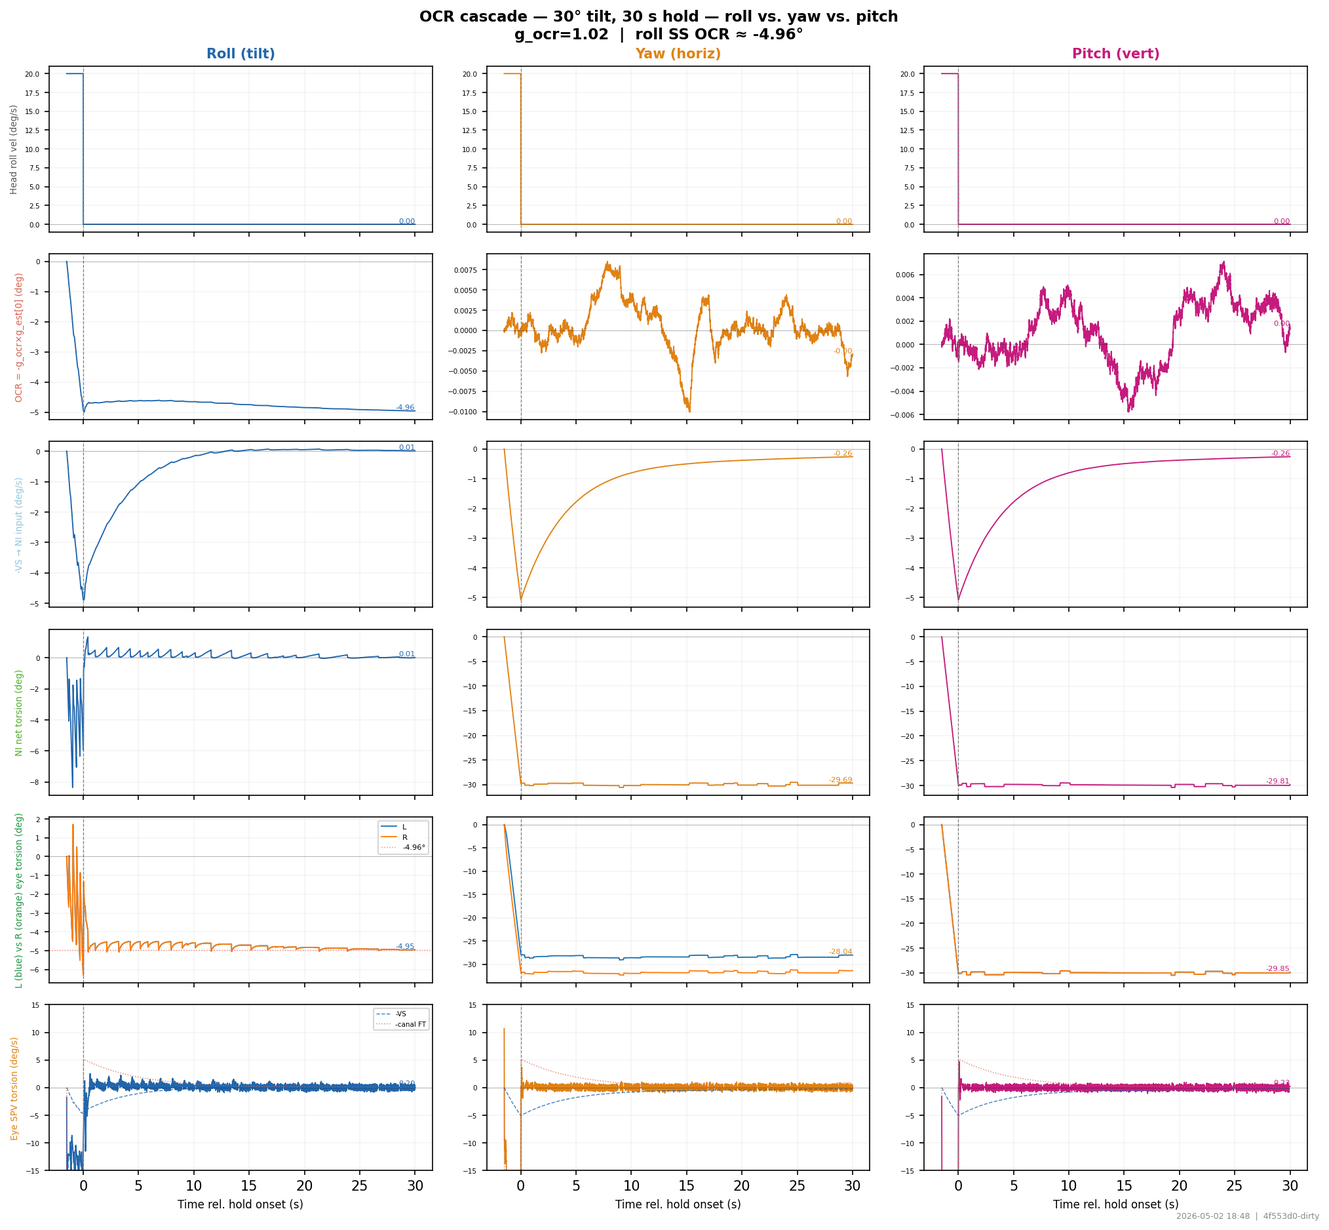
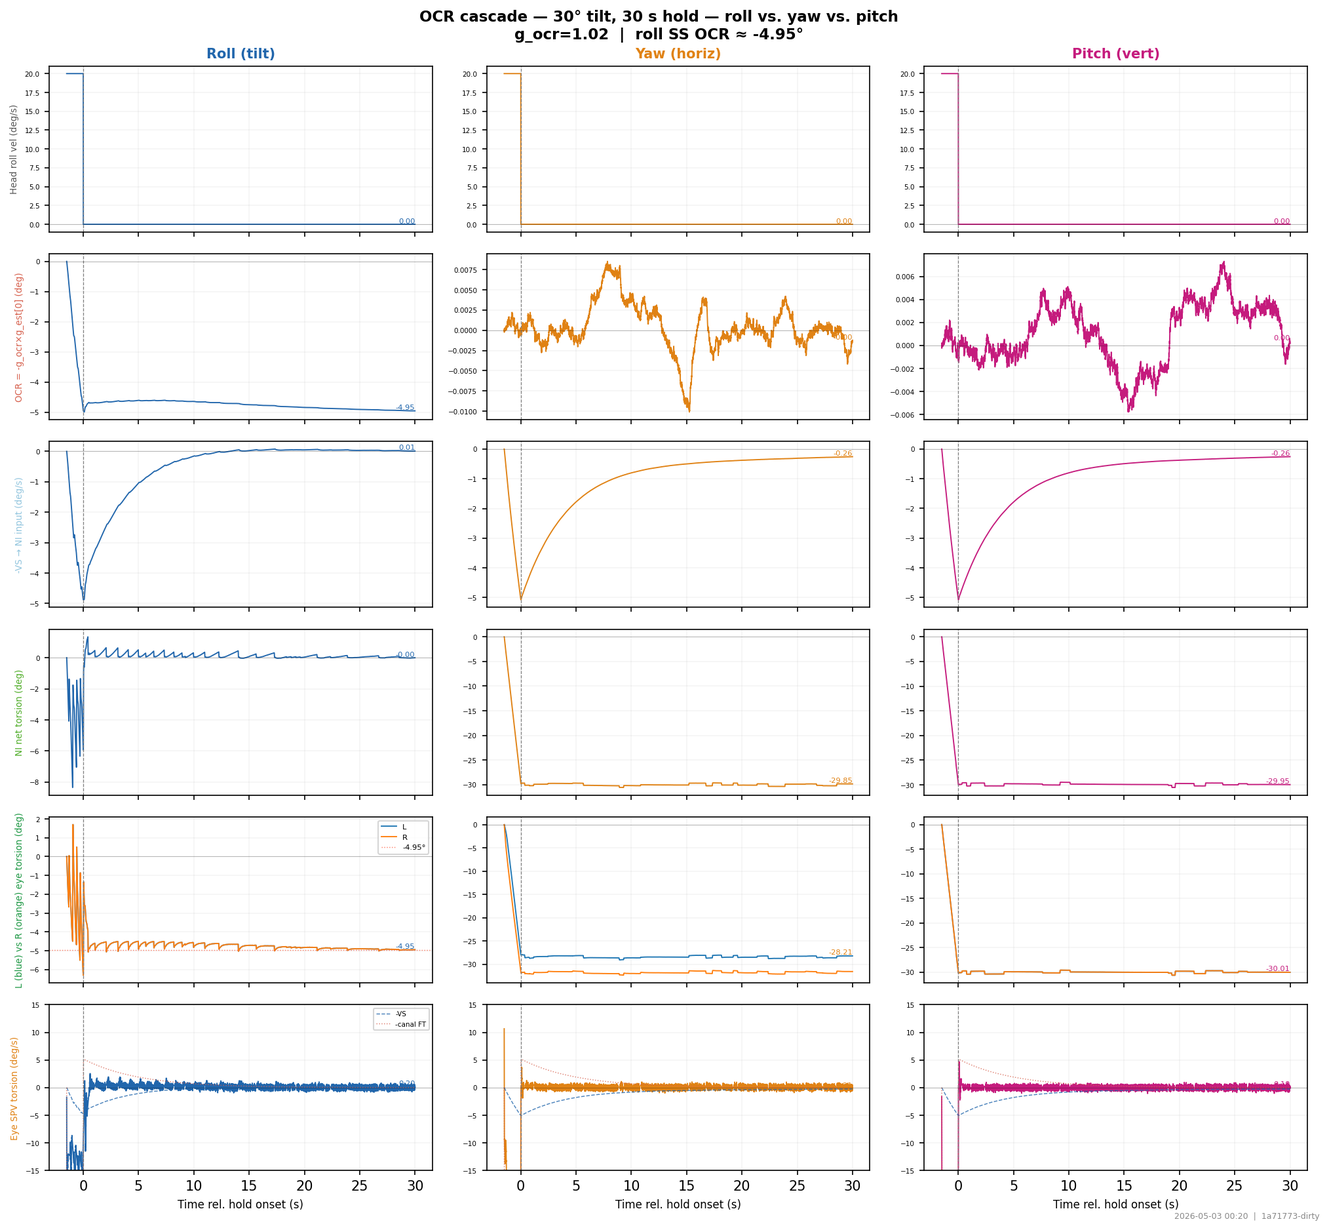
fixed ovar with tvor on! still have some provels with tvor with lights on

diff --git a/scripts/bench_gravity.py b/scripts/bench_gravity.py
@@ -16,6 +16,7 @@ sys.path.insert(0, os.path.dirname(os.path.abspath(__file__)))
 import bench_utils as utils
 
 import numpy as np
+import jax
 import jax.numpy as jnp
 import matplotlib
 if '--show' not in sys.argv:
@@ -183,9 +184,24 @@ def _ocr(show):
 # ─────────────────────────────────────────────────────────────────────────────
 
 def _ovar(show):
-    SPIN_VEL  = 60.0
-    TOTAL     = 60.0
-    TILTS_DEG = [10.0, 30.0, 60.0, 90.0]
+    from oculomotor.models.brain_models.brain_model import _IDX_HEAD
+    from oculomotor.models.plant_models.readout import rotation_matrix
+    from oculomotor.models.sensory_models.retina import ypr_to_xyz
+    SPIN_VEL    = 60.0
+    TILTS_DEG   = [10.0, 30.0, 60.0, 90.0]
+    # Stimulus protocol (separated tilt and rotation events):
+    #   [0, T_TILT_START):           upright at rest
+    #   [T_TILT_START, T_TILT_END):  tilt ramp at TILT_VEL deg/s up to tilt_deg
+    #   [T_TILT_END, T_ROT_START):   rest at tilted position — let g_est settle
+    #   [T_ROT_START, T_ROT_RAMP):   rotation ramp 0 → SPIN_VEL
+    #   [T_ROT_RAMP, TOTAL):         constant SPIN_VEL
+    TILT_VEL      = 30.0   # deg/s tilt rate
+    T_TILT_START  = 2.0
+    T_TILT_END_MAX = T_TILT_START + 90.0 / TILT_VEL   # 5 s for biggest tilt
+    T_ROT_START   = 35.0                              # delay rotation onset to let a_est / v_lin fully settle after tilt
+    ROT_RAMP      = 1.0                                # 1 s smooth ramp
+    T_ROT_RAMP    = T_ROT_START + ROT_RAMP
+    TOTAL         = T_ROT_RAMP + 50.0                  # 50 s of clean rotation
 
     params = with_brain(PARAMS_DEFAULT, K_gd=K_GD)
     cfg    = SimConfig(warmup_s=0.0)   # start from rest (v[0]=0 required)
@@ -194,22 +210,31 @@ def _ovar(show):
     period = 360.0 / SPIN_VEL
 
     colors = ['#1b7837', '#762a83', '#e08214', '#c0392b']
+    # Track right-axis handles so we can format them after the per-condition loop.
+    a_est_axes = []
 
-    fig, axes = plt.subplots(4, 1, figsize=(14, 12), sharex=True)
+    # Layout: SPV | g_est[x,y,z] (3) | v_lin[x,y,z] (3) | VS | Stimulus = 9 rows
+    fig, axes = plt.subplots(9, 1, figsize=(14, 22), sharex=True)
     fig.suptitle(
         f'OVAR — Off-Vertical Axis Rotation  (Laurens & Angelaki 2011, Fig 5)\n'
         f'{SPIN_VEL:.0f} °/s rotation, K_gd={K_GD}, tau_grav={TAU_GRAV}',
         fontsize=12, fontweight='bold')
 
     for ci, tilt_deg in enumerate(TILTS_DEG):
-        # Head starts tilted (left-ear-down = positive roll) then rotates at SPIN_VEL
-        # around the body yaw axis (intrinsic).  This is the classic OVAR geometry:
-        # the chair tilts the subject then rotates around the chair's (tilted) axis.
-        head_vel = np.stack([np.where(t > 0, SPIN_VEL, 0.0),
-                             np.zeros(T),
-                             np.zeros(T)], axis=1)
+        # Build per-condition velocity profile with separated tilt and rotation phases.
+        T_TILT_END = T_TILT_START + tilt_deg / TILT_VEL
+        # Roll velocity: ramp up to TILT_VEL during [T_TILT_START, T_TILT_END), 0 elsewhere.
+        # Integrates to tilt_deg by T_TILT_END.
+        roll_vel = np.where((t >= T_TILT_START) & (t < T_TILT_END), TILT_VEL, 0.0)
+        # Yaw velocity: 0 until T_ROT_START, then linear ramp to SPIN_VEL over ROT_RAMP s, hold.
+        yaw_vel = np.zeros(T)
+        ramp_mask = (t >= T_ROT_START) & (t < T_ROT_RAMP)
+        hold_mask = t >= T_ROT_RAMP
+        yaw_vel[ramp_mask] = SPIN_VEL * (t[ramp_mask] - T_ROT_START) / ROT_RAMP
+        yaw_vel[hold_mask] = SPIN_VEL
+        head_vel = np.stack([yaw_vel, np.zeros(T), roll_vel], axis=1)
         head_km  = km.build_kinematics(t, rot_vel=head_vel,
-                                       rot_pos_0=[0.0, 0.0, tilt_deg])
+                                       rot_pos_0=[0.0, 0.0, 0.0])  # start upright
 
         st       = simulate(params, t,
                             head=head_km,
@@ -220,52 +245,95 @@ def _ovar(show):
         eye_pos = (np.array(st.plant[:, 0]) + np.array(st.plant[:, 3])) / 2.0
         eye_vel = np.gradient(eye_pos, DT)
         spv     = extract_spv_states(st, t)[:, 0]
-        g_est   = np.array(st.brain[:, _IDX_GRAV])
+        g_est   = np.array(st.brain[:, _IDX_GRAV])[:, :3]
+        v_lin   = np.array(st.brain[:, _IDX_HEAD])
+
+        # Compute gia per timestep from head pose (no head translation here, so a_head=0).
+        # gia_head = R(q_head)^T @ G_WORLD.  Then a_est = gia − g_est is what HE integrates.
+        # Vectorized via jax.vmap.
+        q_head_arr = jnp.asarray(head_km.rot_pos)
+        def _gia_one(q):
+            R = rotation_matrix(ypr_to_xyz(q))
+            return R.T @ jnp.array([0.0, G0, 0.0])
+        gia   = np.asarray(jax.vmap(_gia_one)(q_head_arr))
+        a_est = gia - g_est   # what HE integrates into v_lin
 
         col = colors[ci]
         lbl = f'{tilt_deg:.0f}° tilt'
         axes[0].plot(t, spv,             color=col, lw=1.2, alpha=0.85, label=lbl)
         axes[1].plot(t, g_est[:, 0],     color=col, lw=1.2, label=lbl)
-        axes[2].plot(t, vs_net(st)[:,0], color=col, lw=1.2, label=lbl)
+        axes[2].plot(t, g_est[:, 1],     color=col, lw=1.2, label=lbl)
+        axes[3].plot(t, g_est[:, 2],     color=col, lw=1.2, label=lbl)
+        axes[4].plot(t, v_lin[:, 0]*100, color=col, lw=1.2, label=lbl)    # cm/s
+        axes[5].plot(t, v_lin[:, 1]*100, color=col, lw=1.2, label=lbl)
+        axes[6].plot(t, v_lin[:, 2]*100, color=col, lw=1.2, label=lbl)
+        # Overlay a_est (HE integrand) on a right axis for each v_lin panel.
+        for axis_idx, row in [(0, 4), (1, 5), (2, 6)]:
+            if ci == 0:
+                a_est_axes.append(axes[row].twinx())
+            ax_r = a_est_axes[axis_idx]
+            ax_r.plot(t, a_est[:, axis_idx], color=col, lw=0.8, ls='--', alpha=0.6,
+                      label=f'a_est {lbl}' if axis_idx == 0 else None)
+        axes[7].plot(t, vs_net(st)[:,0], color=col, lw=1.2, label=lbl)
         # Stimulus: yaw velocity is identical for all conditions — plot once
         if ci == 0:
-            axes[3].plot(t, head_km.rot_vel[:, 0], 'k-', lw=1.5, label=f'{SPIN_VEL:.0f}°/s body yaw')
+            axes[8].plot(t, head_km.rot_vel[:, 0], 'k-', lw=1.5, label=f'{SPIN_VEL:.0f}°/s body yaw')
 
     # Twin axis: right = initial roll tilt per condition (horizontal colored lines)
-    ax3b = axes[3].twinx()
+    ax_stim_b = axes[8].twinx()
     for ci, tilt_deg in enumerate(TILTS_DEG):
-        ax3b.axhline(tilt_deg, color=colors[ci], lw=1.5, ls='--',
+        ax_stim_b.axhline(tilt_deg, color=colors[ci], lw=1.5, ls='--',
                      label=f'Initial roll tilt = {tilt_deg:.0f}°')
-    ax3b.set_ylabel('Initial roll tilt (°)', fontsize=9, color='gray')
-    ax3b.tick_params(axis='y', labelcolor='gray')
-    ax3b.set_ylim(-5, 100)
+    ax_stim_b.set_ylabel('Initial roll tilt (°)', fontsize=9, color='gray')
+    ax_stim_b.tick_params(axis='y', labelcolor='gray')
+    ax_stim_b.set_ylim(-5, 100)
 
-    pm = np.arange(period, TOTAL, period)
-    for ax in axes[:3]:
+    # Period markers start after rotation reaches steady state (T_ROT_RAMP).
+    pm = np.arange(T_ROT_RAMP + period, TOTAL, period)
+    # Also mark the tilt and rotation onset events.
+    event_marks = [(T_TILT_START, '#1f77b4', 'tilt start'),
+                   (T_ROT_START,  '#d62728', 'rot start')]
+    for ax in axes[:8]:
         for p in pm: ax.axvline(p, color='gray', lw=0.4, ls=':', alpha=0.5)
+        for ev_t, ev_c, _ in event_marks: ax.axvline(ev_t, color=ev_c, lw=0.6, ls='--', alpha=0.4)
         ax.axhline(0, color='k', lw=0.4); ax.grid(True, alpha=0.15)
 
-    axes[3].grid(True, alpha=0.15); axes[3].axhline(0, color='k', lw=0.4)
-    for p in pm: axes[3].axvline(p, color='gray', lw=0.4, ls=':', alpha=0.5)
+    axes[8].grid(True, alpha=0.15); axes[8].axhline(0, color='k', lw=0.4)
+    for p in pm: axes[8].axvline(p, color='gray', lw=0.4, ls=':', alpha=0.5)
+    for ev_t, ev_c, _ in event_marks: axes[8].axvline(ev_t, color=ev_c, lw=0.6, ls='--', alpha=0.4)
 
-    axes[0].set_ylabel('Slow Phase Velocity (SPV, deg/s)', fontsize=9); axes[0].legend(fontsize=8)
+    axes[0].set_ylabel('SPV (deg/s)', fontsize=9); axes[0].legend(fontsize=8)
     axes[0].set_title('SPV sinusoidally modulated at rotation period', fontsize=9)
 
     amp_ref = G0 * np.sin(np.radians(TILTS_DEG[-1]))
-    axes[1].set_ylabel('g_est[0] interaural/right (m/s²)', fontsize=9); axes[1].legend(fontsize=8)
-    axes[1].set_title(f'Gravity estimate oscillates ±G0 sin(a); 90 deg: ±{amp_ref:.1f} m/s²', fontsize=9)
+    axes[1].set_ylabel('g_est[x]\ninteraural (m/s²)', fontsize=9); axes[1].legend(fontsize=8)
+    axes[1].set_title(f'g_est interaural — oscillates ±G₀ sin(α); 90° → ±{amp_ref:.1f} m/s²', fontsize=9)
     axes[1].set_ylim(-12, 12)
+    axes[2].set_ylabel('g_est[y]\nvertical (m/s²)', fontsize=9); axes[2].legend(fontsize=8)
+    axes[2].set_title(f'g_est vertical — should stay near G₀ ≈ {G0:.2f} m/s² (deviation = somatogravic illusion)', fontsize=9)
+    axes[3].set_ylabel('g_est[z]\nforward (m/s²)', fontsize=9); axes[3].legend(fontsize=8)
+    axes[3].set_title('g_est forward — should oscillate too (orthogonal to interaural at 90°)', fontsize=9)
 
-    axes[2].set_ylabel('Velocity Storage (VS) net yaw (deg/s)', fontsize=9); axes[2].legend(fontsize=8)
-    axes[2].set_title('Velocity Storage modulated by gravity dumping (K_gd)', fontsize=9)
+    axes[4].set_ylabel('v_lin[x]\nrightward (cm/s)', fontsize=9); axes[4].legend(fontsize=8, loc='upper left')
+    axes[4].set_title('v_lin (left axis, solid) and a_est = gia − g_est (right axis, dashed) — HE integrates a_est into v_lin', fontsize=9)
+    axes[5].set_ylabel('v_lin[y]\nupward (cm/s)', fontsize=9); axes[5].legend(fontsize=8, loc='upper left')
+    axes[6].set_ylabel('v_lin[z]\nforward (cm/s)', fontsize=9); axes[6].legend(fontsize=8, loc='upper left')
+    for axis_idx, row in [(0, 4), (1, 5), (2, 6)]:
+        ax_r = a_est_axes[axis_idx]
+        ax_r.set_ylabel(f'a_est[{["x","y","z"][axis_idx]}]\n(m/s²)', fontsize=8, color='gray')
+        ax_r.tick_params(axis='y', labelcolor='gray', labelsize=7)
+        ax_r.axhline(0, color='gray', lw=0.3, alpha=0.5)
 
-    axes[3].set_ylabel('Head yaw velocity (°/s)', fontsize=9, color='k')
-    axes[3].set_xlabel('Time (s)', fontsize=9)
-    axes[3].set_title('Stimulus: constant body-yaw rotation (solid) + initial roll tilt per condition (dashed, right axis)',
+    axes[7].set_ylabel('VS net yaw (deg/s)', fontsize=9); axes[7].legend(fontsize=8)
+    axes[7].set_title('Velocity Storage modulated by gravity dumping (K_gd)', fontsize=9)
+
+    axes[8].set_ylabel('Head yaw vel (°/s)', fontsize=9, color='k')
+    axes[8].set_xlabel('Time (s)', fontsize=9)
+    axes[8].set_title('Stimulus: constant body-yaw rotation (solid) + initial roll tilt per condition (dashed, right)',
                       fontsize=9)
-    lines_l, labels_l = axes[3].get_legend_handles_labels()
-    lines_r, labels_r = ax3b.get_legend_handles_labels()
-    axes[3].legend(lines_l + lines_r, labels_l + labels_r, fontsize=7, loc='center right', ncol=2)
+    lines_l, labels_l = axes[8].get_legend_handles_labels()
+    lines_r, labels_r = ax_stim_b.get_legend_handles_labels()
+    axes[8].legend(lines_l + lines_r, labels_l + labels_r, fontsize=7, loc='center right', ncol=2)
 
     fig.tight_layout()
     path, rp = utils.save_fig(fig, 'gravity_ovar', show=show)
@@ -274,8 +342,14 @@ def _ovar(show):
         description=f'{SPIN_VEL:.0f}°/s rotation, tilt angles {TILTS_DEG}°. '
                     'Replicates Laurens & Angelaki (2011) Fig 5.',
         expected='SPV sinusoidally modulated at rotation period. '
-                 'Modulation amplitude ∝ sin(tilt). g_est oscillates ±G₀ sin(α).',
-        citation='Laurens & Angelaki (2011) Exp Brain Res 210:407',
+                 'Modulation amplitude ∝ sin(tilt). g_est oscillates ±G₀ sin(α). '
+                 'A small residual v_lin DC bias along the rotation axis ("screw direction") '
+                 'reflects the perceived sustained linear translation reported by subjects '
+                 'during prolonged OVAR (Denise et al. 1988; Wood 2002).',
+        citation='Laurens & Angelaki (2011) Exp Brain Res 210:407; '
+                 'Denise, Darlot, Droulez, Cohen, Berthoz (1988) Exp Brain Res 67:629 — '
+                 'perceived linear translation during OVAR; '
+                 'Wood (2002) J Vest Res 12:223 — tilt-translation discrimination',
         fig_type='behavior')
 
 
@@ -760,3 +834,7 @@ if __name__ == '__main__':
                     help='Run only this benchmark (default: all)')
     args = ap.parse_args()
     run(show=args.show, only=args.bench)
+    if args.show:
+        # save_fig uses non-blocking show; final blocking show keeps windows open.
+        import matplotlib.pyplot as _plt
+        _plt.show()

diff --git a/src/oculomotor/models/brain_models/brain_model.py b/src/oculomotor/models/brain_models/brain_model.py
@@ -264,11 +264,21 @@ class BrainParams(NamedTuple):
     # Otolith / gravity estimation — Laurens & Angelaki (2011, 2017)
     tau_grav:              float = 5.0    # gravity estimate TC (s); somatogravic bandwidth = 1/(2π·tau_grav) ≈ 0.032 Hz
                                           # sets how fast g_est tracks GIA changes (OCR rise time, OVAR following)
-    K_lin:                 float = 1.0    # linear acceleration adaptation gain (1/s); 0 disables â state.
-                                          # â and ĝ now compete for the same GIA residual (gia − ĝ − â);
-                                          # K_lin > 1/τ_grav (=0.2) lets â grab transient acceleration so ĝ
-                                          # doesn't drift during pure translation (T-VOR).  Sustained DC accel
-                                          # (somatogravic illusion) still leaks into ĝ as â saturates.
+    K_lin:                 float = 0.1    # linear acceleration adaptation gain (1/s); 0 disables â state.
+                                          # K_lin < 1/τ_grav (=0.2) — the Laurens-Angelaki regime where
+                                          # â adapts SLOWLY relative to ĝ.  This biases the gravity
+                                          # estimator to attribute GIA changes to gravity (tilt) rather
+                                          # than acceleration, matching the brain's prior toward
+                                          # tilt-interpretation in dark.  HE consumes a_lin directly,
+                                          # so smaller a_lin → less v_lin pollution from OVAR / OCR.
+    tau_a_lin:             float = 0.2    # a_lin decay TC (s) — the deterministic stand-in for the
+                                          # Kalman prior on translation duration.  Real self-motion
+                                          # accelerations are brief (~0.2–1 s for walking onset, sudden
+                                          # movements), so a_lin should decay back to 0 fast in absence
+                                          # of sustained evidence.  SS a_lin = K_lin·τ_a·r for sustained
+                                          # residual r — short τ_a strongly suppresses sustained-residual
+                                          # pollution (OVAR / OCR cascade) while still letting a_lin
+                                          # respond to actual translation transients.
     K_gd:                  float = 0.0    # gravity dumping gain (1/s); 0 = disabled
     g_ocr:                 float = 0.0    # OCR amplitude (deg); healthy ~10°; 0 = disabled until verified
 
@@ -351,9 +361,8 @@ class BrainParams(NamedTuple):
     # T-VOR response, prevents runaway from gravity-mismatch artifacts.
     # Vest+visual fusion of head linear velocity is now done in heading_estimator
     # (K_he_vis); T-VOR consumes the combined v_lin directly.
-    g_tvor:                float        = 0.0             # T-VOR version output gain (cross product); set to 0 to disconnect T-VOR
-                                                          # while debugging OCR cascade.  Restore to ~1 (Paige & Tomko 1991) when T-VOR is needed.
-    g_tvor_verg:           float        = 0.0             # T-VOR vergence-rate gain — also set to 0 to disconnect T-VOR's vergence drive.
+    g_tvor:                float        = 1.0             # T-VOR version output gain (cross product); ~unity per Paige & Tomko 1991
+    g_tvor_verg:           float        = 1.0             # T-VOR vergence-rate gain (dot product · IPD/D²); surge → vergence drive
     g_tvor_l2_cyclo:       float        = 0.0             # L2 cyclo-vergence cross-coupling gain in T-VOR.  Set to 0 because the
                                                           # exact geometry creates a positive feedback loop with FCP's linear
                                                           # Hering's during head tilts (OCR cascade roll cyclo-vergence drift).
@@ -512,12 +521,13 @@ def step(x_brain, sensory_out, brain_params, noise_acc=0.0):
     # This breaks the algebraic loop: VS needs rf (from GE), GE needs w_est (from VS).
     dx_vs, w_est   = vs.step(x_vs, jnp.concatenate([sensory_out.canal, sensory_out.scene_slip, rf_state]), brain_params)
     dx_grav, g_est = ge.step(x_grav, jnp.concatenate([w_est, sensory_out.otolith]), brain_params)
+    a_lin_est      = x_grav[ge._IDX_A]   # (3,) gravity_estimator's linear-accel estimate
     # OCR: world frame [x=right, y=up, z=fwd]. Right-ear-down → g_est[0] < 0 → -g_est[0] > 0.
     # Positive motor roll = left-ear-down (left-hand rule); negative = right-ear-down (same as head tilt).
     # Partial compensatory: eyes roll right-ear-down when head is right-ear-down (−g_est[0] < 0 → roll < 0).
     ocr            = jnp.array([0.0, 0.0, -brain_params.g_ocr * g_est[0]])
     dx_head, v_lin = he.step(x_head,
-                              jnp.concatenate([g_est, sensory_out.otolith,
+                              jnp.concatenate([a_lin_est,
                                                sensory_out.scene_linear_vel,
                                                jnp.array([sensory_out.scene_visible]),
                                                sensory_out.scene_disp_rate]),

diff --git a/src/oculomotor/models/brain_models/gravity_estimator.py b/src/oculomotor/models/brain_models/gravity_estimator.py
@@ -118,11 +118,14 @@ def step(x_grav, u, brain_params):
     w_est    = u[:3]              # VS net angular velocity, [yaw, pitch, roll] (deg/s)
     gia      = u[3:]              # otolith GIA, world frame [x=right, y=up, z=fwd] (m/s²)
 
-    # Residual = gia − g_est.  (a_lin no longer subtracted from the residual; the
-    # competing-estimator scheme was driving its own coupling issues during sustained
-    # tilts.  Revisit if the somatogravic / translation-as-tilt ambiguity becomes a
-    # problem again.)
-    a_est = gia - g_est
+    # Residual after both estimates: r = gia − g_est − a_lin.  Both g_est and a_lin
+    # compete for the residual — once a_lin captures the true linear acceleration
+    # component, g_est stops being pulled toward transient accel.  This is the
+    # Laurens-Angelaki style decomposition: the brain attributes the GIA between
+    # gravity (slow, large) and translation (transient).  The downstream HE then
+    # consumes a_lin (the brain's translation estimate) instead of (gia − g_est)
+    # raw residual, so HE doesn't integrate gravity-mismatch artifacts into v_lin.
+    a_est = gia - g_est - a_lin
 
     # Transport: rotate gravity estimate with VS angular velocity (VN → uvula/nodulus pathway)
     # ypr_to_xyz converts [yaw,pitch,roll] → xyz rotation-axis vector for cross product
@@ -132,8 +135,18 @@ def step(x_grav, u, brain_params):
     # Gravity correction: pull toward residual (gia − g_est − a_lin) with TC = tau_grav
     dg = transport + (1.0 / brain_params.tau_grav) * a_est
 
-    # Linear acceleration: tracks the same residual; competes with g_est for it
-    da = brain_params.K_lin * a_est
+    # Linear acceleration: tracks the residual + decays toward 0 with TC τ_a.
+    # The decay is the deterministic stand-in for the Kalman prior on translation:
+    # without sustained evidence, a_lin returns to 0 (brain reverts to "no acceleration").
+    # SS for sustained residual r: a_lin_ss = K_lin · τ_a · r (rather than capturing
+    # the entire residual indefinitely).  Without the decay, a_lin permanently captured
+    # any DC residual, leaking into HE → spurious v_lin growth (e.g. OVAR pollution).
+    #
+    # The small residual v_lin that remains during OVAR is along the rotation axis
+    # ("screw direction"), matching subjects' perceived sustained linear translation
+    # during prolonged off-vertical-axis rotation (Denise, Darlot, Droulez, Cohen,
+    # Berthoz 1988 Exp Brain Res 67:629; Wood 2002 J Vest Res 12:223).
+    da = brain_params.K_lin * a_est - a_lin / brain_params.tau_a_lin
 
     # Rotational feedback for VS — Laurens & Angelaki (2011): GIA × G_down / G0²
     # G_down = −g_est (g_est is specific force UP; G_down points DOWN).

diff --git a/src/oculomotor/models/brain_models/heading_estimator.py b/src/oculomotor/models/brain_models/heading_estimator.py
@@ -30,7 +30,7 @@ import jax.numpy as jnp
 
 
 N_STATES  = 3   # [v_lin (3,)]
-N_INPUTS  = 13  # [g_est (3,) | gia (3,) | scene_lin_vel (3,) | scene_visible (1,) | scene_disp_rate (3,)]
+N_INPUTS  = 10  # [a_lin (3,) | scene_lin_vel (3,) | scene_visible (1,) | scene_disp_rate (3,)]
 N_OUTPUTS = 3   # [v_lin (3,)]
 
 X0 = jnp.zeros(3)
@@ -41,10 +41,13 @@ def step(x_head, u, brain_params):
 
     Args:
         x_head:       (3,)  v_lin estimate (m/s, head frame)
-        u:            (13,) [g_est (3,) | gia (3,) | scene_lin_vel (3,) |
-                             scene_visible (1,) | scene_disp_rate (3,)]
-                            g_est:           gravity estimate (m/s², head frame)
-                            gia:             gravitoinertial accel (m/s², head frame)
+        u:            (10,) [a_lin (3,) | scene_lin_vel (3,) | scene_visible (1,) |
+                             scene_disp_rate (3,)]
+                            a_lin:           linear acceleration estimate (m/s², head frame)
+                                             from gravity_estimator — the brain's translation-
+                                             attributed component of (gia − g_est).  Using a_lin
+                                             instead of raw (gia − g_est) avoids integrating
+                                             gravity-mismatch artifacts into v_lin (Laurens-style).
                             scene_lin_vel:   cyclopean translational scene flow (m/s, head frame)
                             scene_visible:   scalar in [0,1] — visual fusion gate
                             scene_disp_rate: per-eye scene-flow differential (m/s, head frame).
@@ -57,14 +60,16 @@ def step(x_head, u, brain_params):
         v_lin:   (3,)  v_lin (m/s), passed through
     """
     v_lin           = x_head
-    g_est           = u[:3]
-    gia             = u[3:6]
-    scene_lin_vel   = u[6:9]
-    scene_visible   = u[9]
-    scene_disp_rate = u[10:13]
+    a_lin           = u[:3]
+    scene_lin_vel   = u[3:6]
+    scene_visible   = u[6]
+    scene_disp_rate = u[7:10]
 
-    # Vestibular: linear acceleration after gravity removal.
-    a_est = gia - g_est
+    # Vestibular: use the gravity estimator's a_lin directly (the brain's translation-
+    # attributed component), not raw (gia − g_est).  This is the Laurens-Angelaki
+    # decomposition: g_est captures slow gravity, a_lin captures transient acceleration.
+    # HE then integrates only the translation part, not the gravity-mismatch artifact.
+    a_est = a_lin
 
     # Visual: scene flow is opposite to head motion in the head frame.  Gated by
     # scene visibility — in dark (scene_visible = 0) the visual pull turns off
